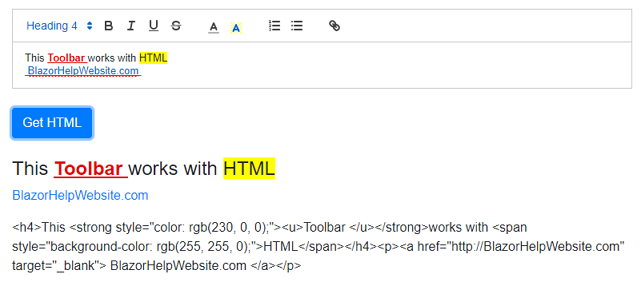
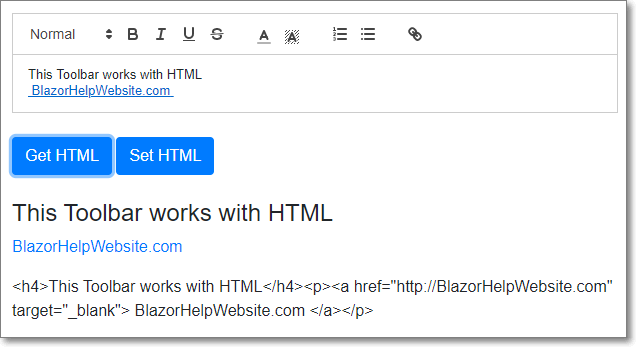
Updated documentation

diff --git a/src/Blazored.TextEditor/Interop.cs b/src/Blazored.TextEditor/Interop.cs
@@ -74,7 +74,8 @@ namespace Blazored.TextEditor
             bool mode)
         {
             return jsRuntime.InvokeAsync<object>(
-                "QuillFunctions.enableQuillEditor", quillElement, mode);
+                "QuillFunctions.enableQuillEditor", 
+                quillElement, mode);
         }
     }
 }

diff --git a/README.md b/README.md
@@ -49,7 +49,7 @@ Below is a list of all the options available on the Text Editor.
 **Templates**
 
 - `ToolbarContent` (optional) - Allows the user to define the Toolbar (above the editor control, or in-line when using the bubble theme, and a user highlights text in the editor).
-- `EditorContent` (Required) - Allows the user to define the initial content
+- `EditorContent` (optional) - Allows the user to define the initial content
 
 **Parameters**
 
@@ -57,6 +57,15 @@ Below is a list of all the options available on the Text Editor.
 - `Placeholder` (Optional - Default: `Compose an epic...`) - The text to show when editor is empty.
 - `Theme` (Optional - Default: `snow`) - Use `snow` to show the Toolbar on top of the editor, and `bubble` for inline editing.
 - `DebugLevel` (Optional - Default: `info`) - Determines the level of debug information returned to the web browser console window. Options are `error`, `warn`, `log`, or `info`.
+
+**Methods**
+
+- `GetText` - Gets the content of the editor as Text.
+- `GetHTML` - Gets the content of the editor as HTML.
+- `GetContent` - Gets the content of the editor in the native Quill JSON Delta format.
+- `LoadContent` (`json`) - Allows the content of the editor to be programmatically set.
+- `LoadHTMLContent` (`string`) - Allows the content of the editor to be programmatically set.
+- `EnableEditor` (`bool`) - Enables or disables the editor.
 
 
 ### Basic Example
@@ -101,6 +110,8 @@ Below is a list of all the options available on the Text Editor.
 <br />
 <button class="btn btn-primary" 
         @onclick="GetHTML">Get HTML</button>
+<button class="btn btn-primary"
+        @onclick="SetHTML">Set HTML</button>
 <br />
 <div>
     <br />
@@ -117,6 +128,16 @@ string QuillHTMLContent;
     public async void GetHTML()
     {
         QuillHTMLContent = await this.QuillHtml.GetHTML();
+        StateHasChanged();
+    }
+
+    public async void SetHTML()
+    {
+        string QuillContent =
+            @"<a href='http://BlazorHelpWebsite.com/'>" +
+            "<img src='images/BlazorHelpWebsite.gif' /></a>";
+
+        await this.QuillHtml.LoadHTMLContent(QuillContent);
         StateHasChanged();
     }
 }
